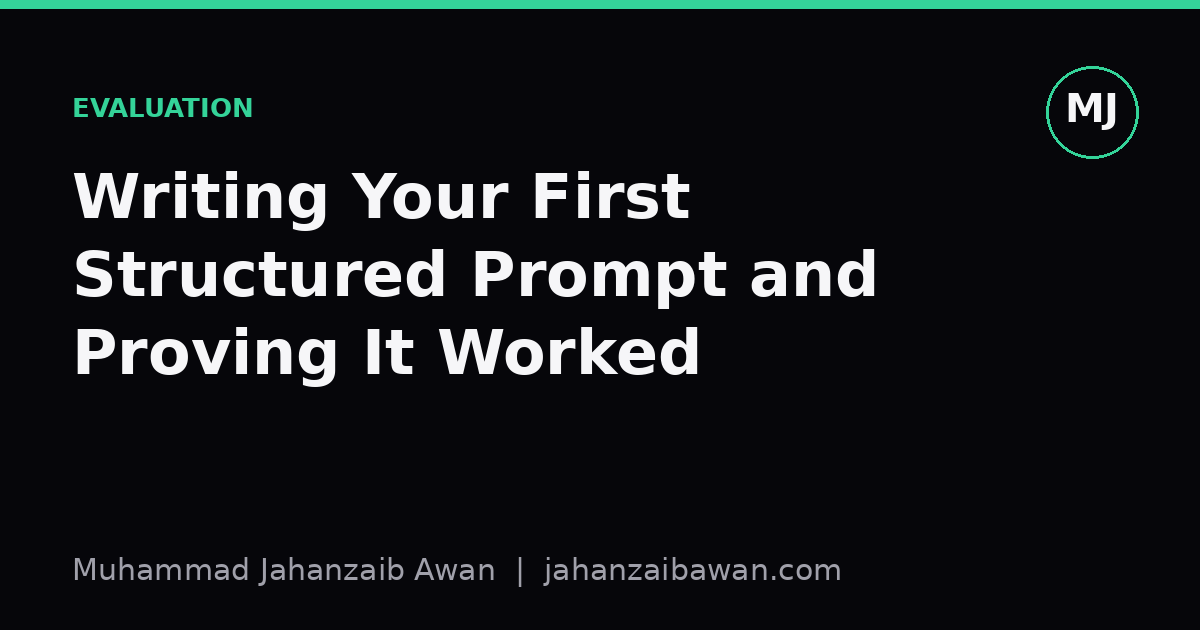
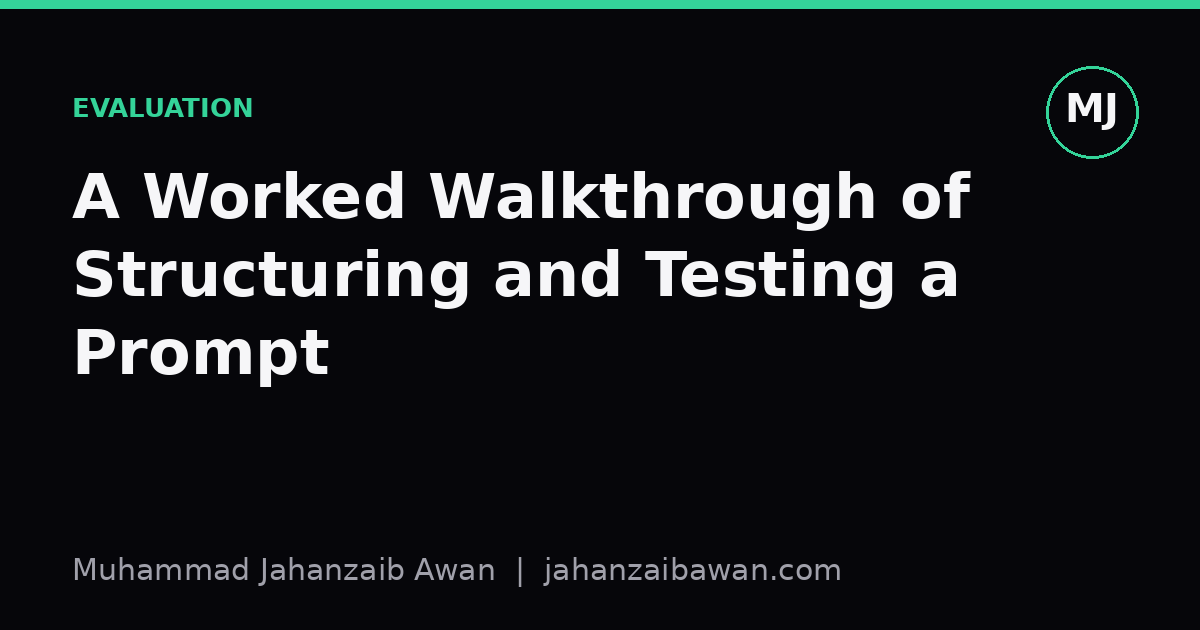
chore: auto blog post (2026-11-18)

Changed region(s): [[0.0617, 0.2714, 0.8325, 0.3619], [0.3083, 0.3921, 0.8017, 0.6032], [0.1542, 0.5127, 0.3392, 0.6333]]

diff --git a/blog/structured-prompt-worked-walkthrough.html b/blog/structured-prompt-worked-walkthrough.html
@@ -3,21 +3,21 @@
 <head>
 <meta charset="UTF-8">
 <meta name="viewport" content="width=device-width, initial-scale=1.0">
-<title>Writing Your First Structured Prompt and Proving It Worked | Muhammad Jahanzaib Awan</title>
-<meta name="description" content="A worked example of building a structured prompt and running a leakage-aware evaluation to measure whether it actually improved output quality.">
+<title>A Worked Walkthrough of Structuring and Testing a Prompt | Muhammad Jahanzaib Awan</title>
+<meta name="description" content="A step-by-step guide to writing a structured prompt and rigorously measuring whether it improved results over a naive baseline.">
 <meta name="author" content="Muhammad Jahanzaib Awan">
-<meta name="keywords" content="structured prompts, prompt engineering, prompt evaluation, LLM evaluation, baseline comparison, reproducibility, few-shot prompting, test set design, Jahanzaib, Jahanzaib Awan, Muhammad Jahanzaib, Muhammad Jahanzaib Awan">
+<meta name="keywords" content="prompt engineering, structured prompts, prompt evaluation, LLM evaluation, baseline comparison, A/B testing prompts, prompt design, Jahanzaib, Jahanzaib Awan, Muhammad Jahanzaib, Muhammad Jahanzaib Awan">
 <meta name="robots" content="index, follow, max-image-preview:large, max-snippet:-1">
 <meta property="og:type" content="article">
 <meta property="article:published_time" content="2026-11-18">
 <meta property="og:site_name" content="Muhammad Jahanzaib Awan">
-<meta property="og:title" content="Writing Your First Structured Prompt and Proving It Worked">
-<meta property="og:description" content="A worked example of building a structured prompt and running a leakage-aware evaluation to measure whether it actually improved output quality.">
+<meta property="og:title" content="A Worked Walkthrough of Structuring and Testing a Prompt">
+<meta property="og:description" content="A step-by-step guide to writing a structured prompt and rigorously measuring whether it improved results over a naive baseline.">
 <meta property="og:image" content="https://jahanzaibawan.com/assets/blog/structured-prompt-worked-walkthrough.png">
 <meta property="og:url" content="https://jahanzaibawan.com/blog/structured-prompt-worked-walkthrough.html">
 <meta property="og:locale" content="en_GB">
 <meta name="twitter:card" content="summary_large_image">
-<meta name="twitter:title" content="Writing Your First Structured Prompt and Proving It Worked">
+<meta name="twitter:title" content="A Worked Walkthrough of Structuring and Testing a Prompt">
 <meta name="twitter:image" content="https://jahanzaibawan.com/assets/blog/structured-prompt-worked-walkthrough.png">
 <link rel="canonical" href="https://jahanzaibawan.com/blog/structured-prompt-worked-walkthrough.html">
 <link rel="alternate" type="application/rss+xml" title="Muhammad Jahanzaib Awan — Writing" href="https://jahanzaibawan.com/feed.xml">
@@ -29,8 +29,8 @@
 {
   "@context": "https://schema.org",
   "@type": "BlogPosting",
-  "headline": "Writing Your First Structured Prompt and Proving It Worked",
-  "description": "A worked example of building a structured prompt and running a leakage-aware evaluation to measure whether it actually improved output quality.",
+  "headline": "A Worked Walkthrough of Structuring and Testing a Prompt",
+  "description": "A step-by-step guide to writing a structured prompt and rigorously measuring whether it improved results over a naive baseline.",
   "url": "https://jahanzaibawan.com/blog/structured-prompt-worked-walkthrough.html",
   "image": "https://jahanzaibawan.com/assets/blog/structured-prompt-worked-walkthrough.png",
   "datePublished": "2026-11-18",
@@ -49,7 +49,7 @@
   "itemListElement": [
     { "@type": "ListItem", "position": 1, "name": "Home", "item": "https://jahanzaibawan.com/" },
     { "@type": "ListItem", "position": 2, "name": "Writing", "item": "https://jahanzaibawan.com/blog.html" },
-    { "@type": "ListItem", "position": 3, "name": "Writing Your First Structured Prompt and Proving It Worked", "item": "https://jahanzaibawan.com/blog/structured-prompt-worked-walkthrough.html" }
+    { "@type": "ListItem", "position": 3, "name": "A Worked Walkthrough of Structuring and Testing a Prompt", "item": "https://jahanzaibawan.com/blog/structured-prompt-worked-walkthrough.html" }
   ]
 }
 </script>
@@ -62,14 +62,14 @@
 <div class="wrap narrow" id="main">
   <div class="phero">
     <a class="back" href="../blog.html">← All writing</a>
-    <div class="tag">Evaluation · 6 min read · 18 Nov 2026</div>
-    <h1>Writing Your First Structured Prompt and Proving It Worked</h1>
-    <p class="lede">A step-by-step look at turning a vague instruction into a structured prompt, and the small evaluation that tells you whether the change actually helped.</p>
+    <div class="tag">Evaluation · 5 min read · 18 Nov 2026</div>
+    <h1>A Worked Walkthrough of Structuring and Testing a Prompt</h1>
+    <p class="lede">Writing a prompt is easy. Knowing whether it actually improved anything is the part most people skip. Here is how to do both properly.</p>
   </div>
 
-  <img src="../assets/blog/structured-prompt-worked-walkthrough.png" alt="Cover image for the article: Writing Your First Structured Prompt and Proving It Worked" style="width:100%;height:auto;border-radius:14px;border:1px solid var(--line2);margin:6px 0 20px;display:block">
+  <img src="../assets/blog/structured-prompt-worked-walkthrough.png" alt="Cover image for the article: A Worked Walkthrough of Structuring and Testing a Prompt" style="width:100%;height:auto;border-radius:14px;border:1px solid var(--line2);margin:6px 0 20px;display:block">
 
-<section class='psec reveal'><h2>Why 'it feels better' is not evidence</h2><p>Most people's first encounter with prompt engineering goes something like this: you write a loose instruction, the model gives back something plausible, you tweak the wording, and the new output feels a bit more on-target. That feeling is almost worthless as evidence. Language models are good at producing text that sounds competent, and our own pattern-matching brains are good at noticing whatever confirms we did something useful. Without a fixed task, a fixed set of inputs, and a fixed way of scoring the outputs, you cannot tell whether your prompt change improved anything or whether you just got lucky on the three examples you happened to try.</p><p>This matters because prompts are, functionally, a piece of your system's logic. If you would not ship a change to a scoring function without testing it, you should not ship a change to a prompt without testing it either. The good news is that you do not need anything elaborate to start doing this properly. You need a small, held-out set of inputs that represents the task, a simple scoring rule, and the discipline to compare two things under exactly the same conditions. That is the whole idea, and it is worth working through once by hand so it stops feeling abstract.</p></section><section class='psec reveal'><h2>From a vague instruction to a structured prompt</h2><p>Say the task is extracting a shipping address and a requested delivery date from customer emails, which then get passed to a logistics system. A first attempt might be: 'Read this email and tell me the address and delivery date.' That is a free-text instruction with no shape. The model might answer in a sentence, a bulleted list, or a paragraph, and the date might appear as '12 March', 'next Tuesday', or '03/12', depending on how the email phrased it. Every one of those variations is a small parsing headache downstream.</p><p>A structured version fixes the shape of the answer rather than just asking nicely for the content. Something like: 'Extract the shipping address and delivery date from the email below. Return only valid JSON with exactly two keys, address and delivery_date. The address should be a single string. The delivery_date should be in YYYY-MM-DD format; if no explicit date is given, use the string unknown. Do not include any text outside the JSON object.' This is longer, less friendly to read, and far more useful, because it constrains the format, specifies the fallback behaviour for the awkward case of a missing date, and removes ambiguity about where the answer starts and ends.</p><p>The temptation at this point is to eyeball five emails, see nicely formatted JSON come back, and declare victory. Resist that. The structured prompt might produce perfect JSON on those five and silently fail on the sixth, where the email mentions two addresses, one for billing and one for shipping, and the model picks the wrong one. You only find that by testing against a representative set, not a convenient one.</p></section><figure style='margin:24px 0'><img src='../assets/blog/body/structured-prompt-worked-walkthrough-1.jpg' alt='handwritten notes with code on whiteboard' loading='lazy' style='width:100%;height:auto;border-radius:12px;border:1px solid var(--line2);display:block'></figure><section class='psec reveal'><h2>Building the actual test and the comparison</h2><p>Pull together, say, 40 real or realistic customer emails, each with a known correct address and delivery date that you or a colleague have labelled by hand. Split them so you are not tuning and evaluating on the same examples: use maybe 10 for trying out prompt wording and the remaining 30 as a held-out set you only look at once you have settled on a final version. This is the same leakage-aware logic that applies to any machine learning evaluation. If you keep adjusting the prompt based on how it performs on your 'test' set, that set has become part of your development process and can no longer tell you how the prompt will do on new emails.</p><p>For scoring, keep it simple and automatable. For each email, check whether the extracted address string matches the labelled one closely enough, for instance via exact match after basic normalisation like lowercasing and stripping punctuation, and separately check whether the delivery date matches exactly in YYYY-MM-DD form or is correctly marked unknown. Report two numbers: address accuracy and date accuracy, rather than one blended score, because a prompt that is excellent at addresses but weak on dates needs a different fix than one that is weak at both.</p><p>Run the vague prompt and the structured prompt over the same 30 held-out emails, with the same model, same temperature setting, and nothing else changed. Suppose the vague prompt gets address accuracy of 61 percent and date accuracy of 48 percent, largely because free-text answers are hard to parse reliably and dates come back in inconsistent formats. The structured prompt gets address accuracy of 83 percent and date accuracy of 77 percent. That gap, on a fixed set under fixed conditions, is a real signal, not a feeling. You can also inspect the failures: perhaps most of the remaining date errors come from emails that mention a date range rather than a single date, which tells you exactly what to address in version three of the prompt, such as adding an explicit instruction for how to handle ranges.</p></section><section class='psec reveal'><h2>What this buys you in practice</h2><p>Once you have this harness, prompt iteration stops being guesswork and becomes something closer to normal engineering. You can try a few-shot version that includes two worked examples inside the prompt, rerun it against the same 30 emails, and see whether 77 percent date accuracy moves to 85 percent or drops to 70 percent because the examples biased the model towards one date format. You can also check something easy to miss: does the structured prompt do worse on a subset, say emails written in a casual tone with slang, even if it does better overall? A single aggregate number can hide a regression that matters a lot for a specific slice of your real traffic.</p><p>The other benefit is reproducibility. If a colleague asks why you switched prompts, you have an artefact: the held-out set, the scoring script, and two numbers before and after, rather than an anecdote about how the output 'seemed cleaner'. That artefact also protects you from a quieter failure mode, which is a prompt that happens to work well on the handful of cases you tested during development but was never checked against anything resembling the full range of real inputs.</p><p>None of this requires sophisticated tooling. A spreadsheet or a short script, a few dozen labelled examples, and a fixed scoring rule will take you most of the way. The discipline is the valuable part: separate the examples you tune on from the examples you judge on, fix everything except the one thing you are testing, and report the breakdown rather than a single comfortable average. Do that once on a small task, and it becomes obvious how much of what passes for prompt engineering elsewhere is really just untested intuition.</p></section><figure style='margin:24px 0'><img src='../assets/blog/body/structured-prompt-worked-walkthrough-2.jpg' alt='person comparing two documents at desk' loading='lazy' style='width:100%;height:auto;border-radius:12px;border:1px solid var(--line2);display:block'></figure>
+<section class='psec reveal'><h2>Why 'it felt better' is not evidence</h2><p>Most people's first structured prompt happens the same way. They write a loose instruction, get a mediocre answer, add some bullet points and a role description, get a nicer-looking answer, and conclude the structure worked. The trouble is that 'nicer-looking' and 'correct' are not the same thing, and a single comparison on a single input tells you almost nothing about whether the change generalises. This is the same trap people fall into with machine learning models before they learn about held-out test sets: one good result on one example is an anecdote, not an evaluation.</p><p>I want to walk through a concrete example of turning a vague prompt into a structured one, and then, more importantly, show the minimum amount of rigour needed to actually trust that the structure helped. The task I will use is a common one: asking a model to extract a few fields from a short piece of customer feedback text, something like sentiment, the product mentioned, and whether a refund was requested. It is simple enough to reason about by hand, which matters for a worked example.</p></section><section class='psec reveal'><h2>From a vague instruction to a structured one</h2><p>A naive first attempt might read: 'Read this customer feedback and tell me the sentiment, product, and if they want a refund.' This works some of the time, but it has three weaknesses. It does not specify the output format, so responses vary between full sentences, bullet lists, and JSON depending on mood. It does not define the categories, so 'sentiment' might come back as 'frustrated' in one case and 'negative' in another, which is a nightmare if you need to aggregate results later. It does not tell the model what to do when information is missing, so it sometimes invents a product name rather than saying it is not mentioned.</p><p>A structured version fixes each of these deliberately rather than by accident. It specifies the exact output schema, for instance a JSON object with keys sentiment, product, and refund_requested. It constrains sentiment to a fixed set of values such as positive, negative, or neutral, rather than leaving it open-ended. It gives an explicit fallback instruction: if the product is not mentioned, return null rather than guessing. It also includes one or two worked examples showing the input and the exact expected output format, because demonstrating the pattern is usually more reliable than describing it in prose.</p><p>None of this is exotic. It is the prompting equivalent of writing a function signature instead of a vague comment. The question is not whether this structured version looks more professional, because it obviously does. The question is whether it produces more correct, more consistent outputs on text the model has not seen before.</p></section><figure style='margin:24px 0'><img src='../assets/blog/body/structured-prompt-worked-walkthrough-1.jpg' alt='handwritten checklist on notebook' loading='lazy' style='width:100%;height:auto;border-radius:12px;border:1px solid var(--line2);display:block'></figure><section class='psec reveal'><h2>Building a small, honest test</h2><p>To measure this properly you need three things: a labelled set of examples the prompt was not tuned on, a clear definition of correctness, and both prompts run under identical conditions. Suppose I collect 40 pieces of customer feedback and label each one by hand with the correct sentiment, product, and refund flag. I split this into 10 examples to look at while designing the prompt, and 30 that I do not look at again until both prompts are finalised. This split matters enormously. If I keep tweaking the structured prompt against the same 40 examples I am testing on, I am effectively fitting the prompt to the test set, and any improvement I see is partly memorisation of quirks in that specific data rather than a genuine gain in the underlying approach.</p><p>With the 30 held-out examples, I run the naive prompt and the structured prompt against each one, record the raw outputs, and score them against the labels. Suppose the naive prompt gets the sentiment right on 22 out of 30, the product right on 19 out of 30, and the refund flag right on 24 out of 30. The structured prompt gets sentiment right on 27, product right on 26, and refund flag right on 28. Those numbers alone are useful, but with only 30 examples the gap between 22 and 27 could plausibly be noise rather than a real effect, so I would want to at least sanity-check this with a basic significance consideration, or ideally a larger sample, before declaring victory in anything beyond an informal sense.</p><p>Equally important is looking at the failure cases rather than just the aggregate score. If the structured prompt's errors on product extraction are mostly on feedback that mentions two products in one sentence, that tells me something specific to fix, such as adding an instruction for multi-product cases, rather than a vague sense that the prompt 'needs more examples'. Aggregate accuracy tells you whether something improved; reading the actual mistakes tells you why, and that is usually where the next round of improvement comes from.</p></section><section class='psec reveal'><h2>What this buys you in practice</h2><p>The practical payoff of this process is not just a better prompt, it is a defensible claim about that prompt. 'I restructured the prompt and it now scores 27 out of 30 on sentiment versus 22 out of 30 for the original, on a held-out set it was never tuned against' is a statement you can defend, repeat, and build on. 'I made it more structured and the outputs look cleaner' is a statement that evaporates the moment someone asks a follow-up question, or the moment the underlying model is updated and your intuitions no longer hold.</p><p>There is a broader habit buried in this small example. Any time you change a prompt, a model, or a pipeline step, treat it as an experiment with a control, not as an obvious improvement you can simply ship. The overhead is small: a few dozen labelled examples, a held-out split, and a clear scoring rule. The payoff is that you stop fooling yourself with cherry-picked examples, and you build a habit that scales up naturally when the stakes get higher and the prompts get more complex.</p></section><figure style='margin:24px 0'><img src='../assets/blog/body/structured-prompt-worked-walkthrough-2.jpg' alt='person comparing two documents side by side' loading='lazy' style='width:100%;height:auto;border-radius:12px;border:1px solid var(--line2);display:block'></figure>
 
   <div class="pnav">
     <a href="../blog.html">← All writing</a>

diff --git a/blog.html b/blog.html
@@ -36,7 +36,7 @@
   "author": { "@type": "Person", "name": "Muhammad Jahanzaib Awan", "url": "https://jahanzaibawan.com/" },
   "publisher": { "@type": "Person", "name": "Muhammad Jahanzaib Awan" },
   "blogPost": [
-    { "@type": "BlogPosting", "headline": "Writing Your First Structured Prompt and Proving It Worked", "url": "https://jahanzaibawan.com/blog/structured-prompt-worked-walkthrough.html", "datePublished": "2026-11-18", "author": { "@type": "Person", "@id": "https://jahanzaibawan.com/#person", "name": "Muhammad Jahanzaib Awan" } },
+    { "@type": "BlogPosting", "headline": "A Worked Walkthrough of Structuring and Testing a Prompt", "url": "https://jahanzaibawan.com/blog/structured-prompt-worked-walkthrough.html", "datePublished": "2026-11-18", "author": { "@type": "Person", "@id": "https://jahanzaibawan.com/#person", "name": "Muhammad Jahanzaib Awan" } },
     { "@type": "BlogPosting", "headline": "Computer Vision in Production: Why Accuracy Diverges", "url": "https://jahanzaibawan.com/blog/demo-accuracy-vs-shipped-accuracy.html", "datePublished": "2026-11-18", "author": { "@type": "Person", "@id": "https://jahanzaibawan.com/#person", "name": "Muhammad Jahanzaib Awan" } },
     { "@type": "BlogPosting", "headline": "The Real Skill Gap After a Prompt Engineering Course", "url": "https://jahanzaibawan.com/blog/prompt-engineering-course-vs-practice.html", "datePublished": "2026-11-17", "author": { "@type": "Person", "@id": "https://jahanzaibawan.com/#person", "name": "Muhammad Jahanzaib Awan" } },
     { "@type": "BlogPosting", "headline": "An MLOps Tooling Decision Tree for Every Team Size", "url": "https://jahanzaibawan.com/blog/mlops-tooling-decision-tree.html", "datePublished": "2026-11-17", "author": { "@type": "Person", "@id": "https://jahanzaibawan.com/#person", "name": "Muhammad Jahanzaib Awan" } },
@@ -340,11 +340,11 @@
 <!--POSTS:START-->
     <a class="pcard reveal" href="blog/structured-prompt-worked-walkthrough.html" style="--hc:var(--a4)">
       <span class="spot"></span>
-      <div class="thumb"><img src="assets/blog/structured-prompt-worked-walkthrough.png" alt="Cover image for the article: Writing Your First Structured Prompt and Proving It Worked" loading="lazy"></div>
+      <div class="thumb"><img src="assets/blog/structured-prompt-worked-walkthrough.png" alt="Cover image for the article: A Worked Walkthrough of Structuring and Testing a Prompt" loading="lazy"></div>
       <div class="pc">
-        <div class="tag">Evaluation · 6 min read</div>
-        <h3>Writing Your First Structured Prompt and Proving It Worked</h3>
-        <p>I turn a loose prompt into a structured one and show the exact comparison that proves whether it genuinely improved outputs.</p>
+        <div class="tag">Evaluation · 5 min read</div>
+        <h3>A Worked Walkthrough of Structuring and Testing a Prompt</h3>
+        <p>I build a structured prompt step by step, then show how to measure whether it genuinely beat the naive version, not just felt better.</p>
         <span class="metric">18 Nov 2026</span>
         <span class="more">Read →</span>
       </div>
